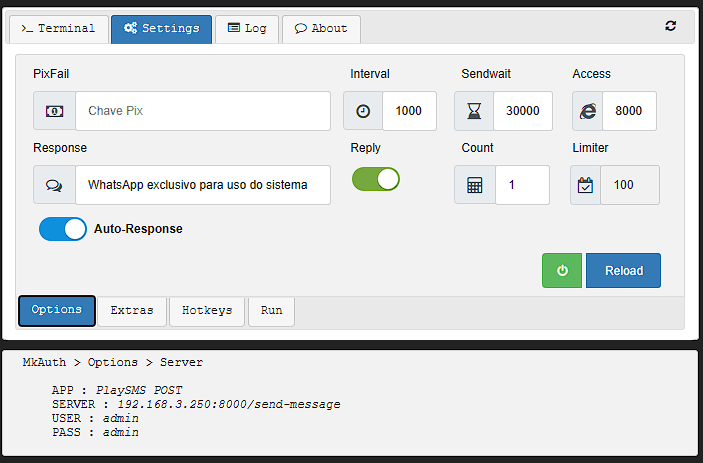
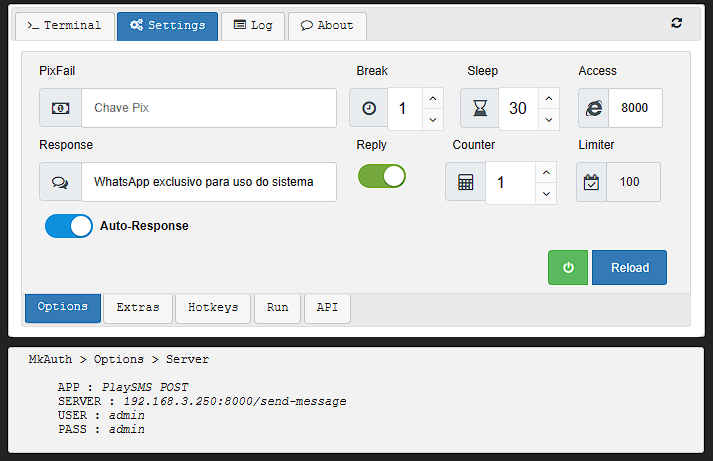
Add files via upload

diff --git a/index.html b/index.html
@@ -110,25 +110,32 @@
 											<div class="col-50">
 												<div class="row">
 													<div class="col-15">
-														<label for="interval">Interval</label>
+														<label for="interval">Break</label>
 														<div class="input-group mb-3" style="height:40px;width:95px;margin-left:-7px;">
 															<div class="input-group-prepend">
 																<span class="input-group-text" style="height:25px;"><i class="fa fa-clock-o" aria-hidden="true"></i></span>
 															</div>
-															<input type="tel" id="interval" placeholder="1000" style="width:55px;">
+															<div class="quantity">
+																<input type="number" id="interval" placeholder="1" style="width:55px;" min="1" max="10" step="1" value="1" readonly>
+																<div class="quantity-nav"><input type="button" class="quantity-button quantity-up" value="&#xf106;" id="IntervalUP"><input type="button" class="quantity-button quantity-down" value="&#xf107" id="IntervalDown"></div>
+															</div>
+															
 														</div>
-														
 														
 														
 														
 													</div>
 													<div class="col-15">
-														<label for="sendwait">Sendwait</label>
+														<label for="sendwait">Sleep</label>
 														<div class="input-group mb-3" style="height:40px;width:105px;margin-left:-7px;">
 															<div class="input-group-prepend">
 																<span class="input-group-text" style="height:26px;"><i class="fa fa-hourglass-end" aria-hidden="true"></i></span>
 															</div>
-															<input type="tel" id="sendwait" placeholder="30000" style="width:60px;">
+															<div class="quantity">
+																<input type="number" id="sendwait" placeholder="1" style="width:60px;" min="10" max="99" step="1" value="30" readonly>
+																<div class="quantity-nav"><input type="button" class="quantity-button quantity-up" value="&#xf106;" id="SendwaitUP"><input type="button" class="quantity-button quantity-down" value="&#xf107" id="SendwaitDown"></div>
+															</div>
+															
 														</div>
 														
 													</div>
@@ -157,13 +164,18 @@
 													</div>
 													
 													
-													<div class="col-15" style="margin-top:10px;">
-														<label for="count">Count</label>
-														<div class="input-group mb-3" style="height:40px;width:100px;margin-left:-7px;">
+													<div class="col-15" style="margin-top:10px;margin-left:-15px;margin-right:13px;">
+														<label for="count">Counter</label>
+														<div class="input-group mb-3" style="height:40px;width:120px;margin-left:-7px;">
 															<div class="input-group-prepend">
 																<span class="input-group-text" style="height:25px;"><i class="fa fa-calculator" aria-hidden="true"></i></span>
 															</div>
-															<input type="tel" id="count" placeholder="1" style="width:55px;">
+															
+															<div class="quantity">
+																<input type="number" id="count" placeholder="1" style="width:70px;" min="1" max="999" step="1" value="1">
+																<div class="quantity-nav"><input type="button" class="quantity-button quantity-up" value="&#xf106;" id="CountUP"><input type="button" class="quantity-button quantity-down" value="&#xf107" id="CountDown"></div>
+															</div>
+															
 														</div>
 														
 														
@@ -176,7 +188,7 @@
 															<div class="input-group-prepend">
 																<span class="input-group-text" style="height:25px;padding:6.5px;"><i class="fa fa-calendar-check-o" aria-hidden="true"></i></span>
 															</div>
-															<input type="tel" id="limiter" placeholder="100" style="width:60px;" disabled>
+															<input type="tel" id="limiter" placeholder="100" style="width:55px;" disabled>
 														</div>
 														
 														
@@ -244,7 +256,7 @@
 											
 											<div class="row" style="margin-top:5px;margin-bottom:-10px;padding-left:20px;z-index:9999999;float:left;">
 												<div class="col-20">
-													<label><input type="checkbox" id="Simulator" class="blue"><b style="margin-top:7px;position:absolute;margin-left:5px;">Mkauth Simulator</b></label>
+													<label><input type="checkbox" id="Simulator" class="blue"><b style="margin-top:7px;position:absolute;margin-left:5px;">Mkauth Simulador</b></label>
 												</div>
 												
 											</div>

diff --git a/script.js b/script.js
@@ -1,6 +1,73 @@
 var Slide = false;
 
 $(document).ready(function() {
+
+	$("#IntervalUP").on('click', function() {
+		GET = parseFloat($("#interval").val());
+		Min = parseFloat($("#interval").attr('min'));
+		Max = parseFloat($("#interval").attr('max'));
+		if (GET < Max) {
+			GET = GET + 1;
+			$("#interval").val(GET);
+		}
+	});
+
+	$("#IntervalDown").on('click', function() {
+		GET = parseFloat($("#interval").val());
+		Min = parseFloat($("#interval").attr('min'));
+		Max = parseFloat($("#interval").attr('max'));
+		if (GET > Min) {
+			GET = GET - 1;
+			$("#interval").val(GET);
+		}
+	});
+
+	$("#SendwaitUP").on('click', function() {
+		GET = parseFloat($("#sendwait").val());
+		Min = parseFloat($("#sendwait").attr('min'));
+		Max = parseFloat($("#sendwait").attr('max'));
+		if (GET < Max) {
+			GET = GET + 1;
+			$("#sendwait").val(GET);
+		}
+	});
+
+	$("#SendwaitDown").on('click', function() {
+		GET = parseFloat($("#sendwait").val());
+		Min = parseFloat($("#sendwait").attr('min'));
+		Max = parseFloat($("#sendwait").attr('max'));
+		if (GET > Min) {
+			GET = GET - 1;
+			$("#sendwait").val(GET);
+		}
+	});
+
+	$("#CountUP").on('click', function() {
+		GET = parseFloat($("#count").val());
+		Min = parseFloat($("#count").attr('min'));
+		Max = parseFloat($("#count").attr('max'));
+		if (GET < Max) {
+			GET = GET + 1;
+			$("#count").val(GET);
+		}
+	});
+
+	$("#CountDown").on('click', function() {
+		GET = parseFloat($("#count").val());
+		Min = parseFloat($("#count").attr('min'));
+		Max = parseFloat($("#count").attr('max'));
+		if (GET > Min) {
+			GET = GET - 1;
+			$("#count").val(GET);
+		}
+	});
+
+
+
+});
+
+
+$(document).ready(function() {
 	$("input[type=password]").prop('type', 'text');
 
 	$("#bar").on('change', function() {
@@ -137,7 +204,7 @@ $(document).ready(function() {
 	$("#Clear").on("click", function() {
 		$("#Message").prop('disabled', true);
 		$(over).show();
-                $("#WhatsApp").val("");
+		$("#WhatsApp").val("");
 		$("#WhatsApp").prop('disabled', false).focus();
 	});
 	var Simulator = "/force-message";
@@ -455,8 +522,8 @@ $(document).ready(function() {
 		}
 	});
 
-	$("#sendwait").mask('99999');
-	$("#interval, #access").mask('9999');
+	$("#sendwait").mask('99');
+	$("#interval, #access").mask('99');
 	$("#limiter, #count").mask('999');
 	$("#token").mask('ZZZZZZZ', {
 		translation: {
@@ -605,9 +672,11 @@ $(document).ready(function() {
 
 
 	socket.on('interval', function(data) {
+		data = (parseFloat(data) / 1000)
 		$('#interval').val(data);
 	});
 	socket.on('sendwait', function(data) {
+		data = (parseFloat(data) / 1000)
 		$('#sendwait').val(data);
 	});
 	socket.on('pixfail', function(data) {
@@ -724,6 +793,7 @@ $(document).ready(function() {
 		}
 	});
 	socket.on('count', function(data) {
+		data = parseFloat(data);
 		$('#count').val(data);
 	});
 	socket.on('donation', function(src) {
@@ -937,10 +1007,10 @@ $(document).ready(function() {
 		if ($("#pixfail").val() == "XXX" || $("#pixfail").val() == "") {
 			$("#pixfail").focus();
 		} else {
-			if ($("#interval").val().length < 4 || $("#interval").val() == "") {
+			if ($("#interval").val().length < 1 || $("#interval").val() == "") {
 				$("#interval").val("").focus();
 			} else {
-				if ($("#sendwait").val().length < 5 || $("#sendwait").val() == "") {
+				if ($("#sendwait").val().length < 2 || $("#sendwait").val() == "") {
 					$("#sendwait").val("").focus();
 				} else {
 					if ($("#access").val().length < 4 || $("#access").val() == "") {
@@ -966,14 +1036,14 @@ $(document).ready(function() {
 											type: "POST",
 											url: "/sqlite-options",
 											data: {
-												interval: $("#interval").val(),
-												sendwait: $("#sendwait").val(),
+												interval: (parseFloat($("#interval").val()) * 1000),
+												sendwait: (parseFloat($("#sendwait").val()) * 1000),
 												access: $("#access").val(),
 												pixfail: $("#pixfail").val(),
 												response: $("#response").val(),
 												replyes: $("#replyes").prop('checked'),
 												onbot: $("#onbot").prop('checked'),
-												count: $("#count").val(),
+												count: (parseFloat($("#count").val())),
 												token: $("#token").val(),
 												limiter: $("#limiter").val()
 											},

diff --git a/style.css b/style.css
@@ -7365,3 +7365,91 @@ input[name=toogle].purple:checked::before {
 input[type="range"] {
   accent-color: #0f90dc;
 }
+
+quantity {
+  position: relative;
+}
+
+input[type=number]::-webkit-inner-spin-button,
+input[type=number]::-webkit-outer-spin-button {
+  -webkit-appearance: none;
+  margin: 0;
+}
+
+input[type=number] {
+  -moz-appearance: textfield;
+font-size: 10px;
+}
+
+.quantity input[type=number]{
+  width: 50px;
+  height: 42px;
+  line-height: 1.65;
+  float: left;
+  display: block;
+  padding: 0;
+  margin: 0;
+  padding-left: 10px;
+  border: none;
+  box-shadow: 0 0 0 1px rgba(0, 0, 0, 0.08);
+  font-size: 1rem;
+  border-radius: 0px 0px 0px 4px;
+}
+
+.quantity input[type=number]:focus {
+  outline: 0;
+}
+
+.quantity-nav {
+  float: left;
+  position: relative;
+  height: 42px;
+}
+
+.quantity-button {
+  position: relative;
+  cursor: pointer;
+  border: none;
+  border-left: 1px solid rgba(0, 0, 0, 0.08);
+  width: 21px;
+  text-align: center;
+  color: #333;
+  font-size: 13px;
+  font-family: "FontAwesome" !important;
+  line-height: 1.5;
+  padding: 0;
+  background: #FAFAFA;
+  -webkit-transform: translateX(-100%);
+  transform: translateX(-100%);
+  -webkit-user-select: none;
+  -moz-user-select: none;
+  -ms-user-select: none;
+  -o-user-select: none;
+  user-select: none;
+}
+
+.quantity-button:active {
+  background: #EAEAEA;
+}
+
+.quantity-button.quantity-up {
+  position: absolute;
+  height: 50%;
+  top: 0;
+  border-bottom: 1px solid rgba(0, 0, 0, 0.08);
+  font-family: "FontAwesome";
+  border-radius: 0 4px 0 0;
+  line-height: 1.6
+}
+
+.quantity-button.quantity-down {
+  position: absolute;
+  bottom: 0;
+  height: 50%;
+  font-family: "FontAwesome";
+  border-radius: 0 0 4px 0;
+}
+
+input[type="number"] {
+    font-size:10px;
+}
